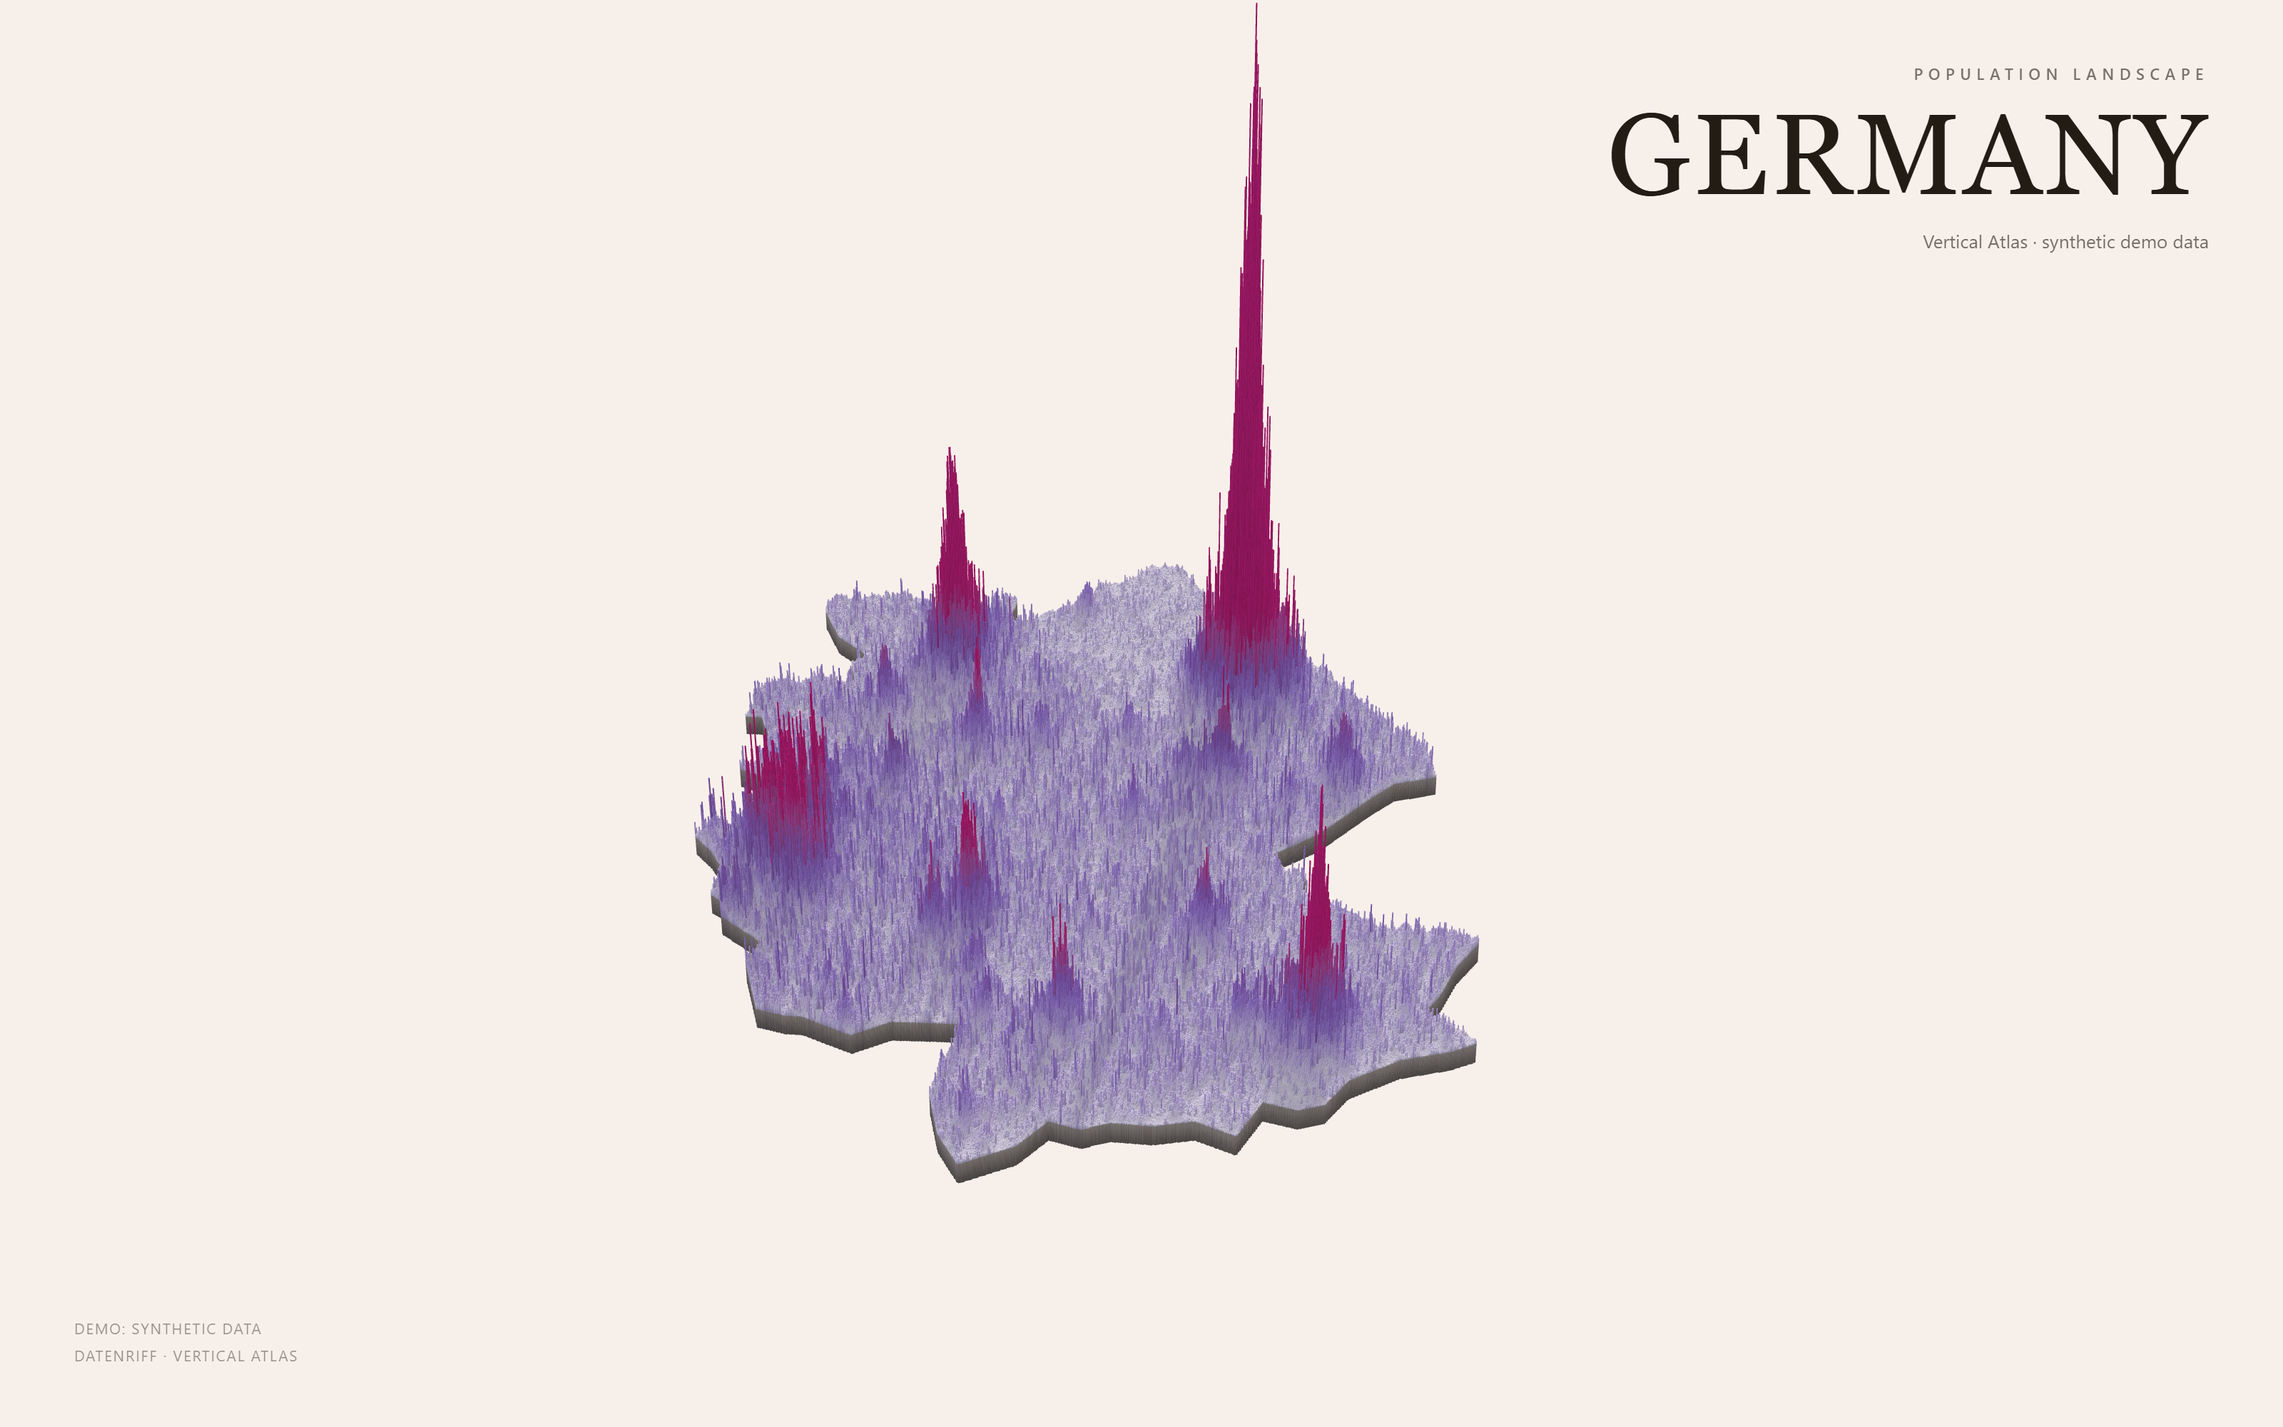
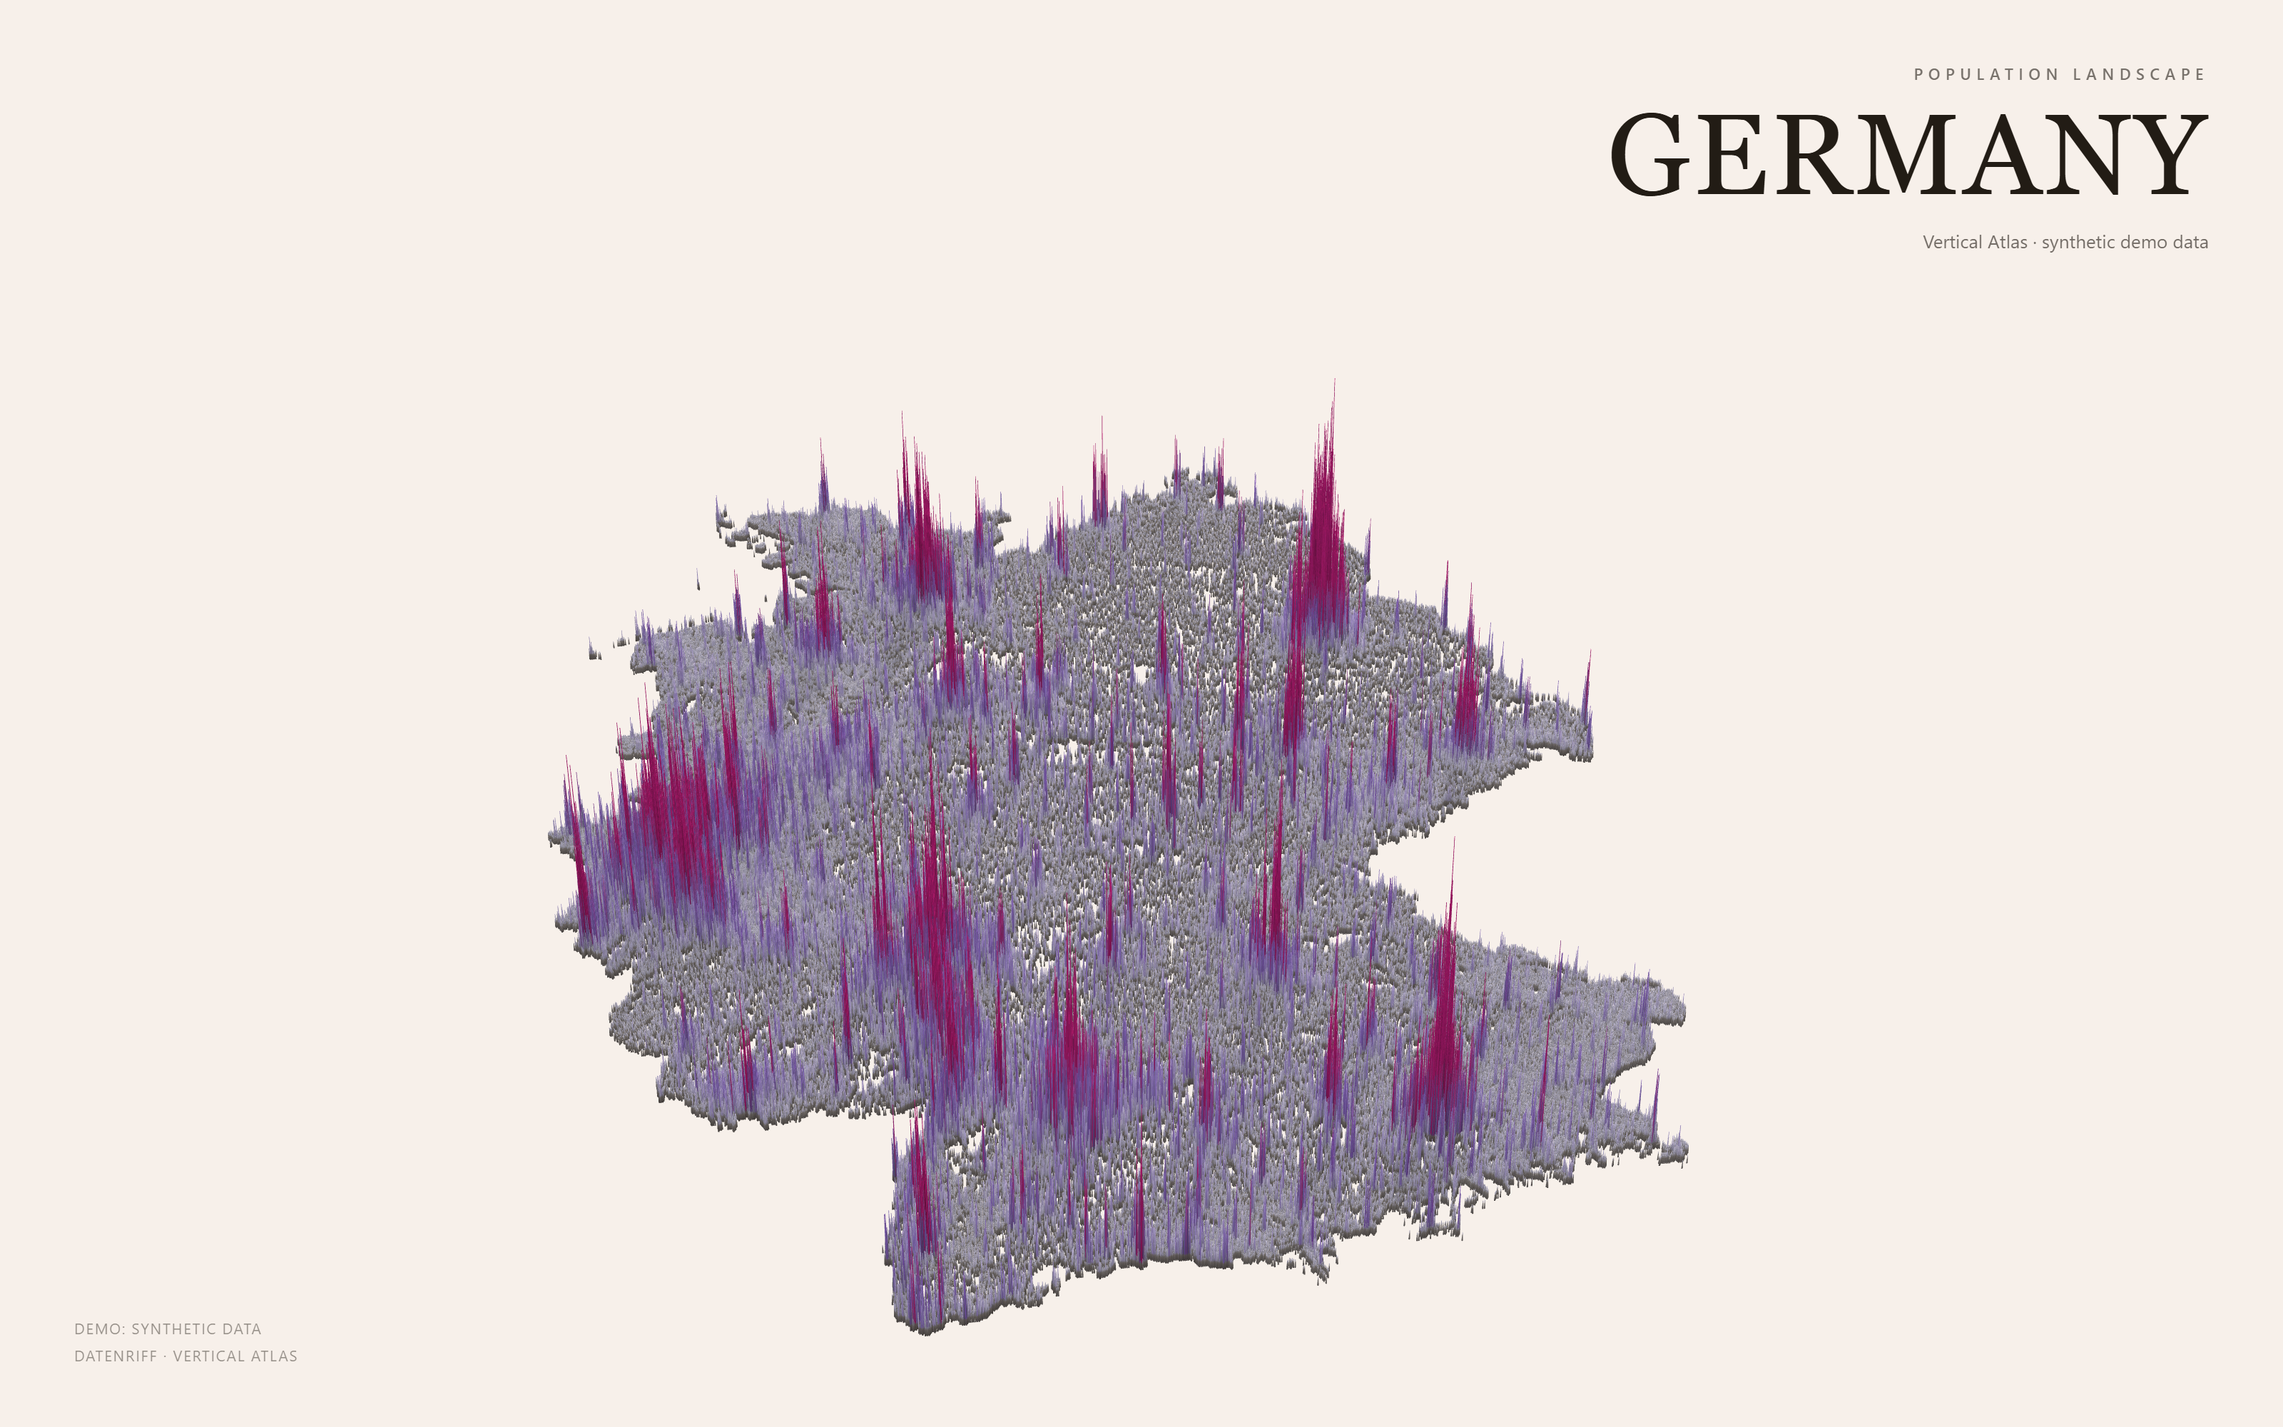
needle silhouettes, peak calibration, ambient occlusion, thinner plinth, msaa

Changed region(s): [[0.2188, 0.062, 0.75, 0.93]]

diff --git a/packages/sculpture-core/src/occlusion.ts b/packages/sculpture-core/src/occlusion.ts
@@ -1,0 +1,99 @@
+// Cheap ambient occlusion for column fields.
+//
+// The editorial reference gets its crystalline look from light not reaching
+// between dense needles: low cells surrounded by tall ones sit in shade,
+// isolated spires stay bright. Ray tracing that per frame is out of the
+// question, so occlusion is precomputed once per cell from the heights of
+// its spatial neighbours and folded into the colour buffer.
+
+/** Occlusion per cell in [0,1]; 0 = fully open, 1 = deep in a crevice. */
+export function computeOcclusion(
+  positions: Float32Array,
+  heights: Float32Array,
+  /** Neighbourhood radius in degrees of longitude (roughly one cell). */
+  searchRadiusDeg: number,
+  /** Height difference (metres) at which a neighbour fully occludes. */
+  fullShadeMeters: number,
+  out?: Float32Array,
+): Float32Array {
+  const count = heights.length;
+  const result = out ?? new Float32Array(count);
+  if (count === 0) return result;
+
+  // uniform grid over the bounding box, one cell per search radius
+  let minLon = Infinity;
+  let minLat = Infinity;
+  let maxLon = -Infinity;
+  let maxLat = -Infinity;
+  for (let i = 0; i < count; i++) {
+    const lon = positions[i * 2]!;
+    const lat = positions[i * 2 + 1]!;
+    if (lon < minLon) minLon = lon;
+    if (lon > maxLon) maxLon = lon;
+    if (lat < minLat) minLat = lat;
+    if (lat > maxLat) maxLat = lat;
+  }
+  const cell = searchRadiusDeg > 0 ? searchRadiusDeg : 1e-6;
+  const cols = Math.max(1, Math.ceil((maxLon - minLon) / cell) + 1);
+  const rows = Math.max(1, Math.ceil((maxLat - minLat) / cell) + 1);
+  const colOf = (lon: number) => Math.min(cols - 1, Math.floor((lon - minLon) / cell));
+  const rowOf = (lat: number) => Math.min(rows - 1, Math.floor((lat - minLat) / cell));
+
+  // counting sort into buckets: counts → offsets → fill
+  const bucketCount = cols * rows;
+  const starts = new Int32Array(bucketCount + 1);
+  for (let i = 0; i < count; i++) {
+    starts[rowOf(positions[i * 2 + 1]!) * cols + colOf(positions[i * 2]!) + 1]! += 1;
+  }
+  for (let b = 0; b < bucketCount; b++) starts[b + 1]! += starts[b]!;
+  const items = new Int32Array(count);
+  const cursor = Int32Array.from(starts.subarray(0, bucketCount));
+  for (let i = 0; i < count; i++) {
+    const b = rowOf(positions[i * 2 + 1]!) * cols + colOf(positions[i * 2]!);
+    items[cursor[b]!++] = i;
+  }
+
+  for (let i = 0; i < count; i++) {
+    const own = heights[i]!;
+    const c = colOf(positions[i * 2]!);
+    const r = rowOf(positions[i * 2 + 1]!);
+    let taller = 0;
+    let neighbours = 0;
+    for (let dr = -1; dr <= 1; dr++) {
+      const rr = r + dr;
+      if (rr < 0 || rr >= rows) continue;
+      for (let dc = -1; dc <= 1; dc++) {
+        const cc = c + dc;
+        if (cc < 0 || cc >= cols) continue;
+        const b = rr * cols + cc;
+        for (let k = starts[b]!; k < starts[b + 1]!; k++) {
+          const j = items[k]!;
+          if (j === i) continue;
+          neighbours += 1;
+          const rise = heights[j]! - own;
+          if (rise > 0) {
+            taller += rise > fullShadeMeters ? 1 : rise / fullShadeMeters;
+          }
+        }
+      }
+    }
+    result[i] = neighbours > 0 ? taller / neighbours : 0;
+  }
+  return result;
+}
+
+/** Multiply an RGBA buffer in place by (1 − strength · occlusion). */
+export function applyOcclusion(
+  colors: Uint8Array,
+  occlusion: Float32Array,
+  strength: number,
+): void {
+  if (strength <= 0) return;
+  for (let i = 0; i < occlusion.length; i++) {
+    const shade = 1 - strength * occlusion[i]!;
+    const o = i * 4;
+    colors[o] = colors[o]! * shade;
+    colors[o + 1] = colors[o + 1]! * shade;
+    colors[o + 2] = colors[o + 2]! * shade;
+  }
+}

diff --git a/apps/web/src/sculpture/targets.ts b/apps/web/src/sculpture/targets.ts
@@ -8,8 +8,10 @@ import type {
 } from '@datenriff/data-contracts';
 import { PALETTES, applyColorScale } from '@datenriff/color-scales';
 import {
+  applyOcclusion,
   buildChangePct,
   computeElevations,
+  computeOcclusion,
   computeStats,
   elevationScaleFor,
   type MorphTarget,
@@ -23,7 +25,18 @@ export const TARGET_MAX_HEIGHT_METERS = 100_000;
 
 /** Depth of the plinth below the terrain, so the country reads as an island.
  *  Keep in sync with the prototype's `?base=`. */
-export const PLINTH_DEPTH_METERS = 18_000;
+export const PLINTH_DEPTH_METERS = 5_000;
+
+/** Height anchor between the p99.5 quantile (0) and the maximum (1). Higher
+ *  values flatten the plain and leave isolated spires — the editorial look.
+ *  Keep in sync with the prototype's `?peak=`. */
+export const PEAKEDNESS = 0.55;
+
+/** Tip width as a fraction of the column base. Prototype: `?taper=`. */
+export const COLUMN_TAPER = 0.35;
+
+/** Ambient occlusion strength. Prototype: `?ao=`. */
+export const OCCLUSION_STRENGTH = 0.3;
 
 /** Warm stone tone of the plinth walls. */
 export const PLINTH_COLOR: [number, number, number] = [151, 138, 124];
@@ -75,6 +88,17 @@ export class TargetBuilder {
     return entry;
   }
 
+  /** Occlusion depends on the height field, so it is cached per mode. */
+  private occlusion(heights: Float32Array): Float32Array {
+    const radiusDeg = ((this.scene.lod.cellRadiusMeters || 500) * 2.2) / 111_320;
+    return computeOcclusion(
+      this.scene.positions,
+      heights,
+      radiusDeg,
+      TARGET_MAX_HEIGHT_METERS * 0.04,
+    );
+  }
+
   build(mode: SculptureMode, palette: string | null = null): ModeTarget {
     const colorScale = effectiveColorScale(mode, palette);
     const key = `${mode.id}|${colorScale.palette}`;
@@ -86,6 +110,7 @@ export class TargetBuilder {
       height.stats,
       TARGET_MAX_HEIGHT_METERS,
       mode.heightScale.calibrationQuantile ?? 0.995,
+      PEAKEDNESS,
     );
     const heights = computeElevations(toF32(height.values), scale);
 
@@ -96,6 +121,7 @@ export class TargetBuilder {
         ? (this.scene.metrics.get(colorScale.saturationMetric) as Uint8Array)
         : undefined;
     applyColorScale(colorScale, color.values, color.stats, colors, saturation);
+    applyOcclusion(colors, this.occlusion(heights), OCCLUSION_STRENGTH);
 
     const target: ModeTarget = { heights, colors, colorStats: color.stats };
 

diff --git a/apps/web/src/sculpture/needleExtension.ts b/apps/web/src/sculpture/needleExtension.ts
@@ -1,0 +1,47 @@
+// Tapers ColumnLayer columns towards their tip.
+//
+// A field of full-width prisms reads as a carpet; needles let the paper
+// through between them and catch light on the tips, which is what the
+// editorial reference does. deck.gl has no taper prop, so this hooks
+// DECKGL_FILTER_SIZE(inout vec3 size, VertexGeometry geometry), where `size`
+// is the horizontal offset in common space. `positions` is the column's
+// vertex attribute: z is −1 at the base and +1 at the tip.
+//
+// Calibrated in the prototype (`?taper=`), mirrored here.
+
+import { LayerExtension, type Layer } from '@deck.gl/core';
+
+export interface NeedleExtensionOptions {
+  /** Tip width as a fraction of the base: 1 = prism, 0 = point. */
+  taper: number;
+}
+
+export class NeedleExtension extends LayerExtension<NeedleExtensionOptions> {
+  static override extensionName = 'NeedleExtension';
+
+  constructor(opts: NeedleExtensionOptions = { taper: 1 }) {
+    super(opts);
+  }
+
+  override getShaders(this: Layer, extension: this): unknown {
+    const taper = extension.opts.taper.toFixed(4);
+    return {
+      inject: {
+        // The filter hooks are emitted as functions above main, where the
+        // `positions` attribute is not declared yet — so read it at the top
+        // of main and hand the result over in a global.
+        'vs:#decl': 'float needle_widthScale;\n',
+        'vs:#main-start': `
+  needle_widthScale = mix(1.0, ${taper}, (positions.z + 1.0) * 0.5);
+`,
+        'vs:DECKGL_FILTER_SIZE': `
+  size.xy *= needle_widthScale;
+`,
+      },
+    };
+  }
+
+  override equals(extension: NeedleExtension): boolean {
+    return this.opts.taper === extension.opts.taper;
+  }
+}

diff --git a/packages/sculpture-core/src/metrics.ts b/packages/sculpture-core/src/metrics.ts
@@ -8,16 +8,28 @@ export function quantileFromStats(stats: MetricStats, q: number): number {
   return stats.max;
 }
 
-/** Height stays linear, but each sculpture is calibrated so its p99.5 peak
- * reaches roughly the same composition height. */
+/** Height stays linear, but each sculpture is calibrated so its peak reaches
+ * roughly the same composition height.
+ *
+ * The anchor quantile decides the silhouette: anchoring at p99.5 clips the
+ * top half-percent to full height, which at country scale is thousands of
+ * equally tall towers — a carpet. Anchoring near the maximum leaves a low
+ * crust with a handful of spires, which is what the editorial reference
+ * looks like. Between the two, `peakedness` blends geometrically so the
+ * plain flattens without the extremes losing all their scale. */
 export function elevationScaleFor(
   stats: MetricStats,
   targetMaxMeters = 100_000,
   calibrationQuantile = 0.995,
+  peakedness = 0,
 ): number {
   const anchor = quantileFromStats(stats, calibrationQuantile);
   if (!(anchor > 0)) return 1;
-  return targetMaxMeters / anchor;
+  const top = stats.max > 0 ? stats.max : anchor;
+  const p = peakedness <= 0 ? 0 : peakedness >= 1 ? 1 : peakedness;
+  // geometric blend: 0 → anchor quantile, 1 → absolute maximum
+  const blended = anchor * Math.pow(top / anchor, p);
+  return targetMaxMeters / blended;
 }
 
 /** Per-cell elevations in metres. Working in metres (not per-layer scale)

diff --git a/apps/web/src/sculpture/tiles.ts b/apps/web/src/sculpture/tiles.ts
@@ -11,7 +11,12 @@ import type {
 } from '@datenriff/data-contracts';
 import type { SceneData } from '../data/loader';
 import { CHANGE_PCT_METRIC } from '../modes/modes';
-import { TARGET_MAX_HEIGHT_METERS, effectiveColorScale } from './targets';
+import {
+  OCCLUSION_STRENGTH,
+  PEAKEDNESS,
+  TARGET_MAX_HEIGHT_METERS,
+  effectiveColorScale,
+} from './targets';
 import type {
   TileErrorResponse,
   TileLoadRequest,
@@ -188,7 +193,11 @@ export class TileManager {
 
     const heightStats = index.metrics[mode.heightMetric];
     if (!heightStats) return;
-    const elevationScale = TARGET_MAX_HEIGHT_METERS / (heightStats.p995 || 1);
+    // same anchor blend as the country LOD, but against this LOD's own stats
+    const anchor = heightStats.p995 || 1;
+    const top = heightStats.max > 0 ? heightStats.max : anchor;
+    const elevationScale =
+      TARGET_MAX_HEIGHT_METERS / (anchor * Math.pow(top / anchor, PEAKEDNESS));
 
     const scale = effectiveColorScale(mode, palette);
     const isChange = mode.colorMetric === CHANGE_PCT_METRIC;
@@ -206,6 +215,11 @@ export class TileManager {
       colorScale: scale,
       colorStats,
       colorStorage,
+      occlusion: {
+        radiusDeg: (lod.cellRadiusMeters * 2.2) / 111_320,
+        fullShadeMeters: TARGET_MAX_HEIGHT_METERS * 0.04,
+        strength: OCCLUSION_STRENGTH,
+      },
     };
     if (isChange) {
       req.changeUrls = {

diff --git a/apps/web/src/workers/tiles.worker.ts b/apps/web/src/workers/tiles.worker.ts
@@ -4,7 +4,12 @@
 
 import type { ColorScaleDefinition, MetricStats } from '@datenriff/data-contracts';
 import { applyColorScale } from '@datenriff/color-scales';
-import { buildChangePct, computeElevations } from '@datenriff/sculpture-core';
+import {
+  applyOcclusion,
+  buildChangePct,
+  computeElevations,
+  computeOcclusion,
+} from '@datenriff/sculpture-core';
 
 export interface TileLoadRequest {
   type: 'load';
@@ -21,6 +26,8 @@ export interface TileLoadRequest {
   elevationScale: number;
   colorScale: ColorScaleDefinition;
   colorStats: MetricStats;
+  /** Ambient occlusion: neighbour radius in degrees, shade height, strength. */
+  occlusion?: { radiusDeg: number; fullShadeMeters: number; strength: number };
 }
 
 export interface TileLoadResponse {
@@ -79,6 +86,15 @@ async function load(req: TileLoadRequest): Promise<void> {
 
   const colors = new Uint8Array(count * 4);
   applyColorScale(req.colorScale, colorValues, req.colorStats, colors, saturation);
+  if (req.occlusion) {
+    const occ = computeOcclusion(
+      positions,
+      heights,
+      req.occlusion.radiusDeg,
+      req.occlusion.fullShadeMeters,
+    );
+    applyOcclusion(colors, occ, req.occlusion.strength);
+  }
 
   scope.postMessage(
     { type: 'tile', key: req.key, count, positions, heights, colors },

diff --git a/apps/web/src/sculpture/layers.ts b/apps/web/src/sculpture/layers.ts
@@ -6,7 +6,12 @@ import type { Layer, PickingInfo } from '@deck.gl/core';
 import { hexColumnRadius } from '@datenriff/sculpture-core';
 import type { CityLabel } from '@datenriff/data-contracts';
 import type { SceneData } from '../data/loader';
-import { PLINTH_COLOR, PLINTH_DEPTH_METERS } from './targets';
+import { NeedleExtension } from './needleExtension';
+import { COLUMN_TAPER, PLINTH_COLOR, PLINTH_DEPTH_METERS } from './targets';
+
+/** One shared instance: deck compares extensions by value, and a new object
+ *  per render would recompile the shader every frame. */
+const NEEDLE = new NeedleExtension({ taper: COLUMN_TAPER });
 
 export const INK: [number, number, number, number] = [34, 28, 21, 235];
 export const PAPER_HALO: [number, number, number, number] = [247, 240, 234, 235];
@@ -84,6 +89,7 @@ export function createSculptureLayers(o: SculptureLayerOptions): Layer[] {
       pickable: o.pickable,
       opacity: o.sculptureOpacity ?? 1,
       visible: (o.sculptureOpacity ?? 1) > 0.02,
+      extensions: [NEEDLE],
       material: {
         ambient: 0.64,
         diffuse: 0.52,

diff --git a/apps/web/src/modes/modes.ts b/apps/web/src/modes/modes.ts
@@ -20,7 +20,7 @@ export const MODES: SculptureMode[] = [
     heightMetric: 'population_2022',
     colorMetric: 'population_2022',
     heightScale: { type: 'linear' },
-    colorScale: { type: 'sqrt', clip: 0.995, palette: 'population', gamma: 1.5 },
+    colorScale: { type: 'sqrt', clip: 0.995, palette: 'population', gamma: 2.0 },
     tooltip: {
       fields: [{ metric: 'population_2022', label: 'Population', format: 'integer' }],
     },

diff --git a/apps/web/src/sculpture/SculptureView.tsx b/apps/web/src/sculpture/SculptureView.tsx
@@ -264,6 +264,8 @@ export function SculptureView({ scene, engine }: Props) {
         layers={layers}
         effects={effects}
         onAfterRender={finishCapture}
+        // MSAA: thin needles alias badly without it
+        deviceProps={{ webgl: { antialias: true } }}
         useDevicePixels={exporting ? 1 : Math.min(window.devicePixelRatio || 1, 2)}
         style={{ background: 'transparent' }}
       />

diff --git a/packages/sculpture-core/src/index.ts b/packages/sculpture-core/src/index.ts
@@ -7,6 +7,7 @@ export {
   buildChangeAbs,
   computeStats,
 } from './metrics.js';
+export { computeOcclusion, applyOcclusion } from './occlusion.js';
 export {
   MorphEngine,
   cubicInOut,
